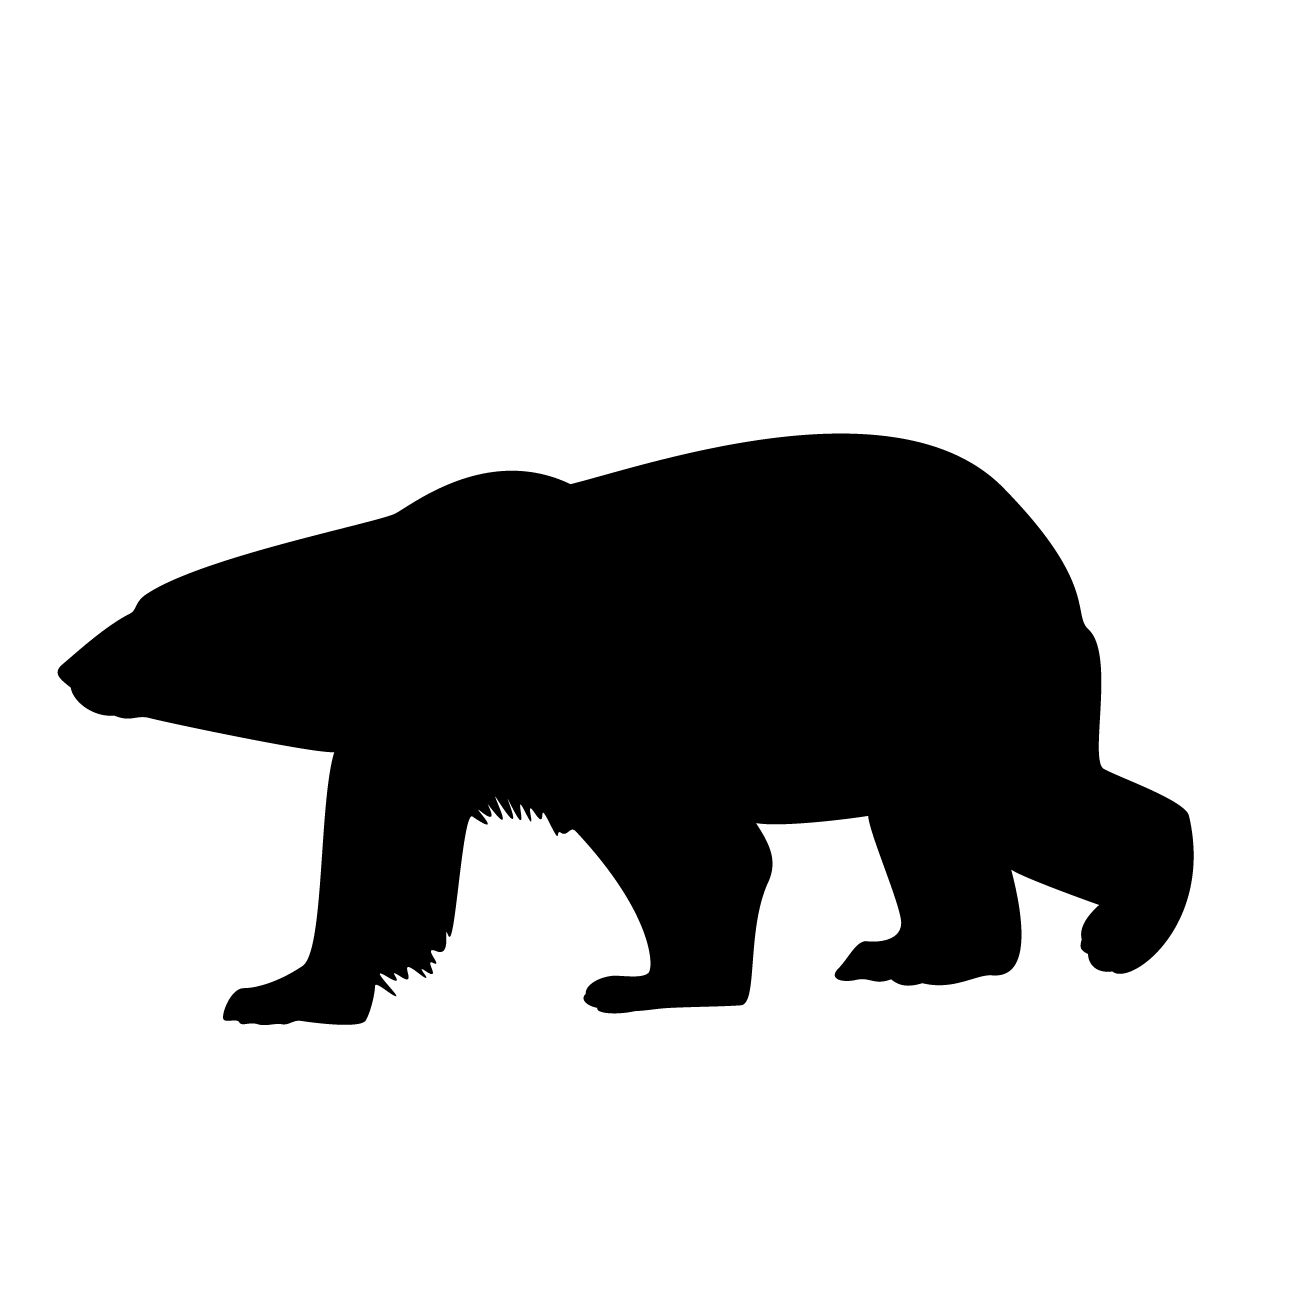
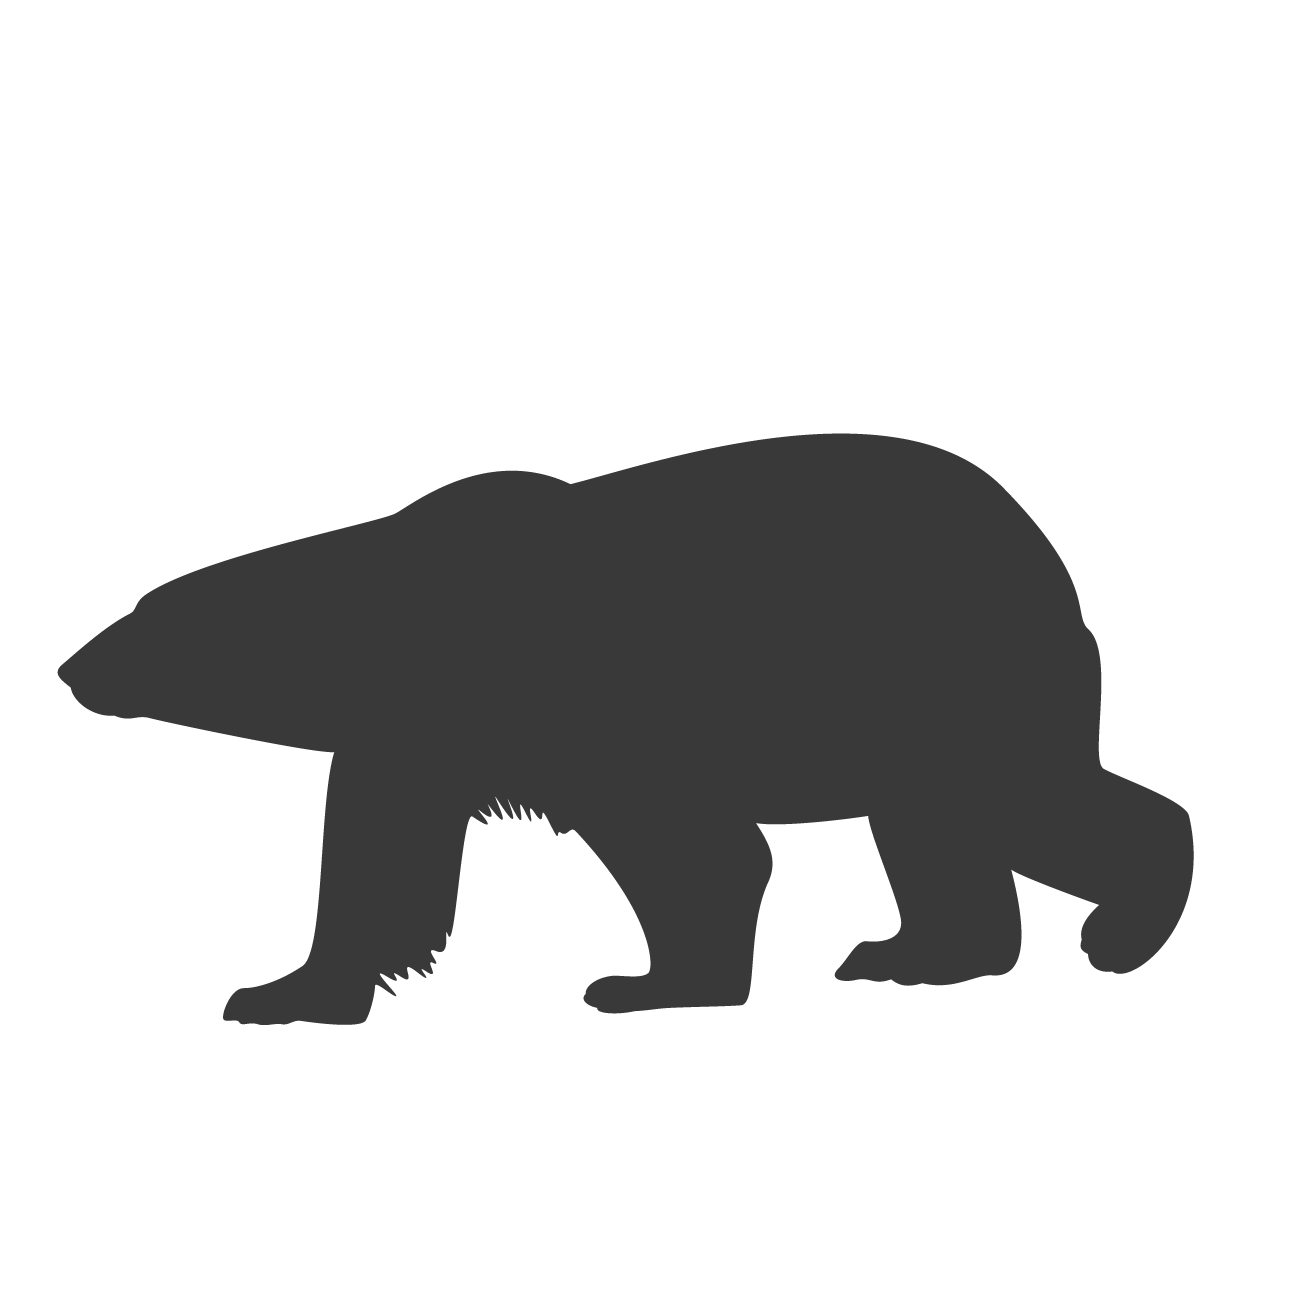
fix(card.scss): images シルエットカラーを全て灰色に .card__img-outer background-color: -main: に変更 #159

Changed region(s): [[0.0308, 0.3075, 0.9231, 0.7994]]

diff --git a/src/sass/_card.scss b/src/sass/_card.scss
@@ -12,7 +12,7 @@
 }
 
 .card__img-outer {
-  background-color: $color-accent;
+  background-color: $color-main;
 }
 
 .card__img {
